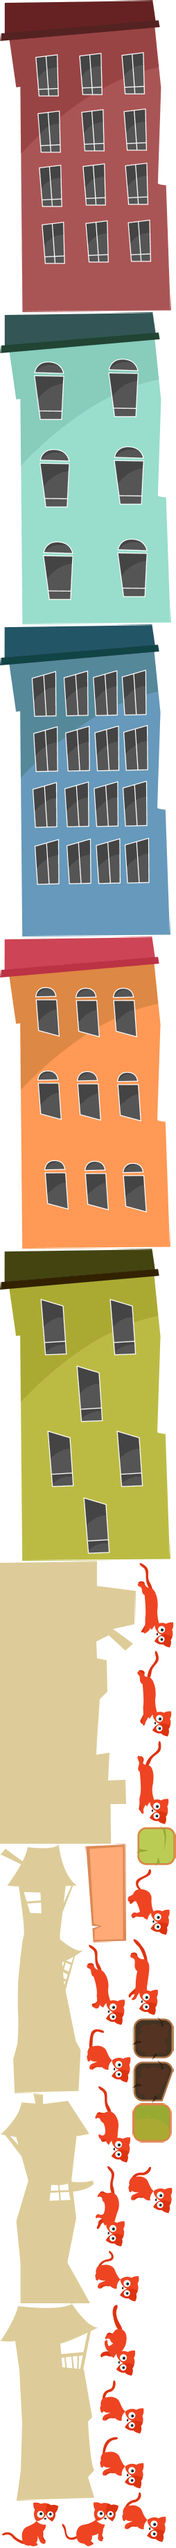
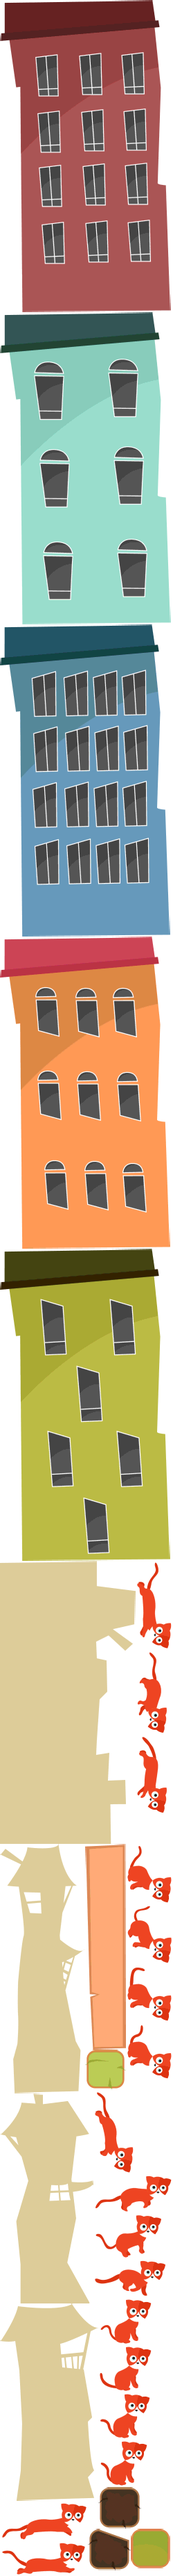
updated code

diff --git a/safari/Classes/mini_games/CatScene.cpp b/safari/Classes/mini_games/CatScene.cpp
@@ -19,7 +19,7 @@ Node* Cat::loadNode() {
 
 
 std::string Cat::getGridBackground() {
-	return "hippo/button.png";
+	return "hippo/button_clicked.png";
 }
 
 void Cat::createChoice()
@@ -59,7 +59,7 @@ void Cat::createChoice()
 }
 
 std::string Cat::getGraphemeUnselectedBackground() {
-	return "hippo/button_clicked.png";
+	return "hippo/button.png";
 }
 std::string Cat::getGraphemeSelectedBackground() {
 	return "hippo/block.png";
@@ -74,8 +74,8 @@ void Cat::createAnswer()
 	CCLOG("createAnswer");
 	auto label = ui::Text::create();
 	label->setString(_word);
-	label->setFontSize(100);
-	label->setPosition(Vec2());
+	label->setFontSize(200);
+	//label->setPosition(Vec2());
 	_answer = Sprite::createWithSpriteFrameName("hippo/board.png");
 	_answer->addChild(label);
 	label->setPosition(Vec2(_answer->getContentSize().width/2, _answer->getContentSize().height/2));

diff --git a/safari/Classes/mini_games/CatGameScene.cpp b/safari/Classes/mini_games/CatGameScene.cpp
@@ -77,7 +77,7 @@ bool CatGame::init()
 	this->addChild(test1, 1);
 	this->scheduleUpdate();
 	tailAnimation();
-	auto followAction = Follow::createWithOffset(_catNode, -(Director::getInstance()->getVisibleSize().width*0.24),90);
+	auto followAction = Follow::createWithOffset(_catNode, -(Director::getInstance()->getVisibleSize().width*0.24), 50);
 	_catLayer->runAction(followAction);
 	//createBuilding();
 	generateBuildingLayer("stright");
